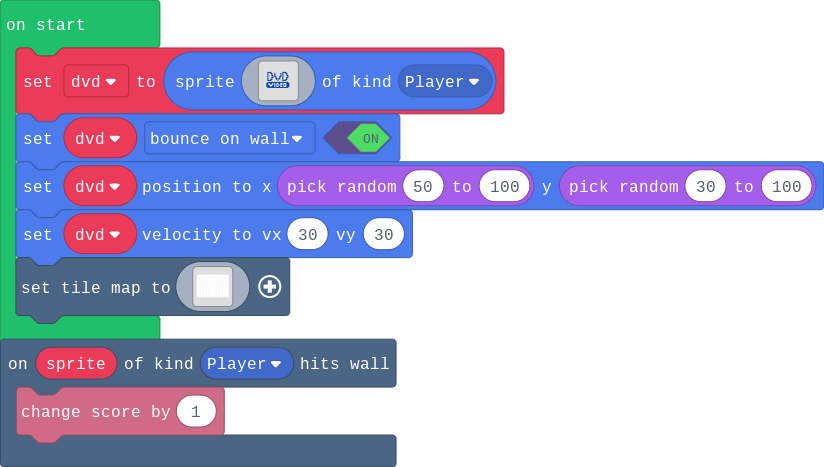
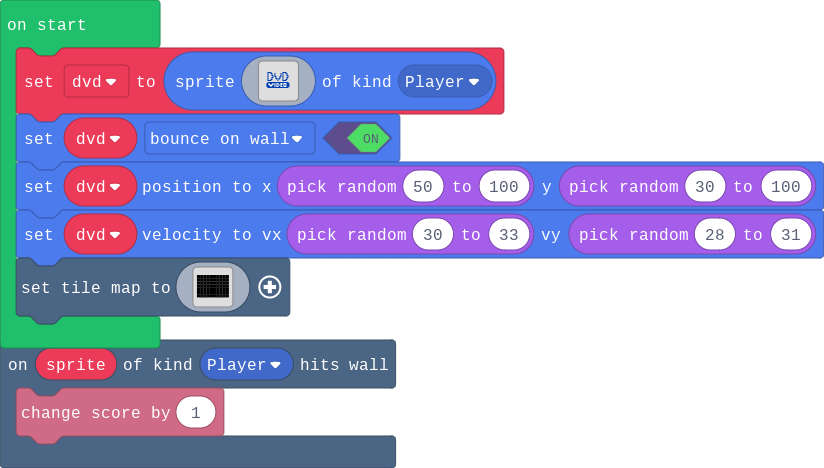
random speeds

diff --git a/main.ts b/main.ts
@@ -37,13 +37,13 @@ let dvd = sprites.create(img`
 `, SpriteKind.Player)
 dvd.setFlag(SpriteFlag.BounceOnWall, true)
 dvd.setPosition(Math.randomRange(50, 100), Math.randomRange(30, 100))
-dvd.setVelocity(30, 30)
+dvd.setVelocity(Math.randomRange(30, 33), Math.randomRange(28, 31))
 scene.setTileMap(img`
-1 1 1 1 1 1 1 1 1 1 
-1 1 1 1 1 1 1 1 1 1 
-1 1 1 1 1 1 1 1 1 1 
-1 1 1 1 1 1 1 1 1 1 
-1 1 1 1 1 1 1 1 1 1 
-1 1 1 1 1 1 1 1 1 1 
-1 1 1 1 1 1 1 1 1 1 
+f f f f f f f f f f 
+f f f f f f f f f f 
+f f f f f f f f f f 
+f f f f f f f f f f 
+f f f f f f f f f f 
+f f f f f f f f f f 
+f f f f f f f f f f 
 `)
